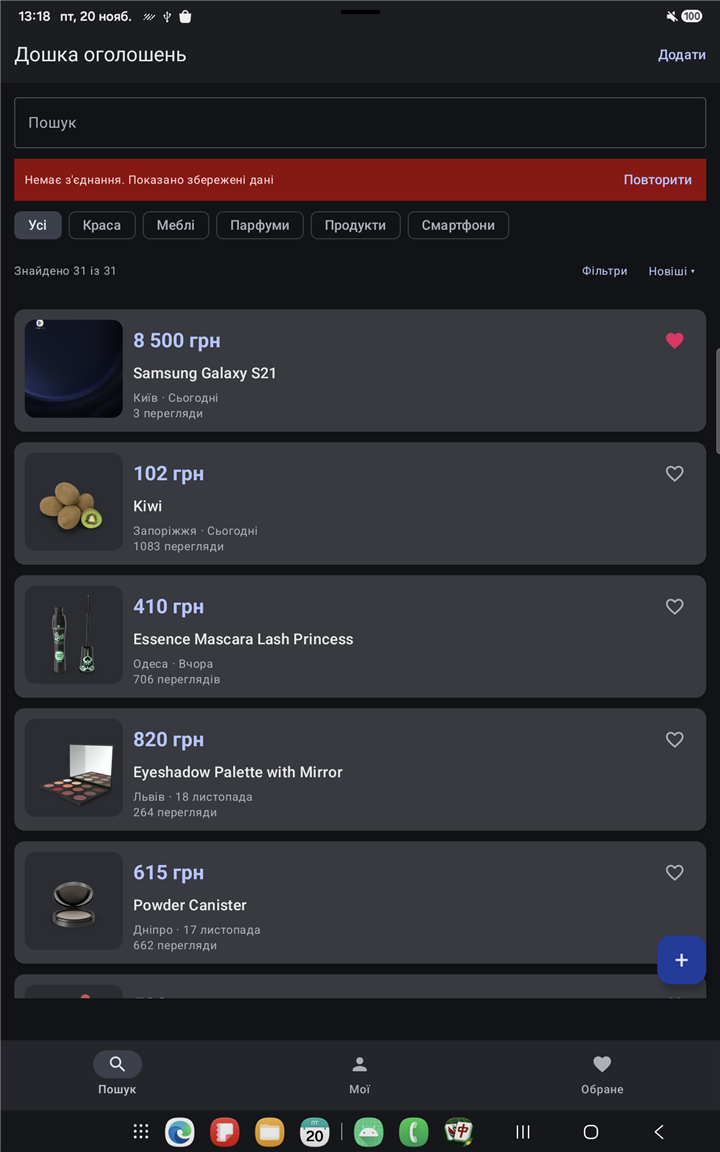
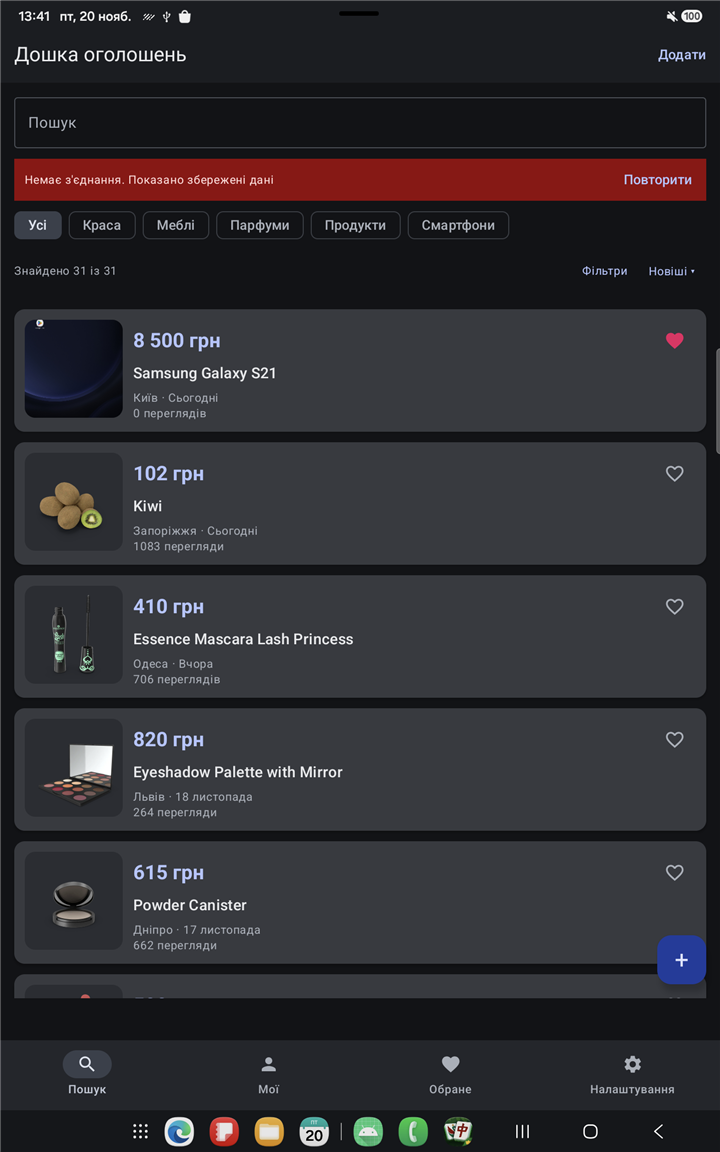
feat: move theme settings to a separate screen

diff --git a/app/src/main/java/com/example/adboardapp/ui/SettingsScreen.kt b/app/src/main/java/com/example/adboardapp/ui/SettingsScreen.kt
@@ -1,0 +1,154 @@
+package com.example.adboardapp.ui
+
+import androidx.compose.foundation.clickable
+import androidx.compose.foundation.layout.Box
+import androidx.compose.foundation.layout.Column
+import androidx.compose.foundation.layout.Row
+import androidx.compose.foundation.layout.Spacer
+import androidx.compose.foundation.layout.fillMaxSize
+import androidx.compose.foundation.layout.fillMaxWidth
+import androidx.compose.foundation.layout.height
+import androidx.compose.foundation.layout.padding
+import androidx.compose.foundation.layout.widthIn
+import androidx.compose.foundation.rememberScrollState
+import androidx.compose.foundation.shape.RoundedCornerShape
+import androidx.compose.foundation.verticalScroll
+import androidx.compose.material3.ExperimentalMaterial3Api
+import androidx.compose.material3.HorizontalDivider
+import androidx.compose.material3.MaterialTheme
+import androidx.compose.material3.RadioButton
+import androidx.compose.material3.Scaffold
+import androidx.compose.material3.Surface
+import androidx.compose.material3.Text
+import androidx.compose.material3.TopAppBar
+import androidx.compose.runtime.Composable
+import androidx.compose.runtime.getValue
+import androidx.compose.ui.Alignment
+import androidx.compose.ui.Modifier
+import androidx.compose.ui.tooling.preview.Preview
+import androidx.compose.ui.unit.dp
+import androidx.lifecycle.compose.collectAsStateWithLifecycle
+import com.example.adboardapp.model.ThemeMode
+import com.example.adboardapp.ui.theme.AdBoardAppTheme
+import org.koin.androidx.compose.koinViewModel
+
+// App settings, currently the theme choice
+@Composable
+fun SettingsScreen(
+    viewModel: ThemeViewModel = koinViewModel()
+) {
+    val mode by viewModel.mode.collectAsStateWithLifecycle()
+
+    SettingsContent(
+        mode = mode,
+        onModeChange = viewModel::setMode
+    )
+}
+
+// Stateless content of the settings screen
+@OptIn(ExperimentalMaterial3Api::class)
+@Composable
+fun SettingsContent(
+    mode: ThemeMode,
+    onModeChange: (ThemeMode) -> Unit,
+    modifier: Modifier = Modifier
+) {
+    Scaffold(
+        modifier = modifier.fillMaxSize(),
+        topBar = {
+            TopAppBar(title = { Text("Налаштування") })
+        }
+    ) { innerPadding ->
+        Box(
+            modifier = Modifier
+                .padding(innerPadding)
+                .fillMaxSize(),
+            contentAlignment = Alignment.TopCenter
+        ) {
+            Column(
+                modifier = Modifier
+                    .widthIn(max = 840.dp)
+                    .fillMaxSize()
+                    .verticalScroll(rememberScrollState())
+                    .padding(16.dp)
+            ) {
+                Text(
+                    text = "Оформлення",
+                    style = MaterialTheme.typography.labelLarge,
+                    color = MaterialTheme.colorScheme.onSurfaceVariant
+                )
+
+                Spacer(Modifier.height(8.dp))
+
+                Surface(
+                    shape = RoundedCornerShape(16.dp),
+                    tonalElevation = 1.dp,
+                    modifier = Modifier.fillMaxWidth()
+                ) {
+                    Column {
+                        ThemeMode.entries.forEachIndexed { index, option ->
+                            ThemeOption(
+                                label = option.label,
+                                description = description(option),
+                                selected = mode == option,
+                                onClick = { onModeChange(option) }
+                            )
+                            if (index != ThemeMode.entries.lastIndex) {
+                                HorizontalDivider(
+                                    modifier = Modifier.padding(start = 56.dp)
+                                )
+                            }
+                        }
+                    }
+                }
+            }
+        }
+    }
+}
+
+// One row of the theme radio group
+@Composable
+private fun ThemeOption(
+    label: String,
+    description: String,
+    selected: Boolean,
+    onClick: () -> Unit
+) {
+    Row(
+        modifier = Modifier
+            .fillMaxWidth()
+            .clickable(onClick = onClick)
+            .padding(horizontal = 12.dp, vertical = 10.dp),
+        verticalAlignment = Alignment.CenterVertically
+    ) {
+        RadioButton(selected = selected, onClick = onClick)
+        Column(modifier = Modifier.padding(start = 8.dp)) {
+            Text(
+                text = label,
+                style = MaterialTheme.typography.bodyLarge
+            )
+            Text(
+                text = description,
+                style = MaterialTheme.typography.bodySmall,
+                color = MaterialTheme.colorScheme.onSurfaceVariant
+            )
+        }
+    }
+}
+
+private fun description(mode: ThemeMode): String = when (mode) {
+    ThemeMode.SYSTEM -> "Як у системі"
+    ThemeMode.LIGHT -> "Світло-сірі кольори"
+    ThemeMode.DARK -> "Темні кольори"
+}
+
+@Preview(showBackground = true)
+@Composable
+private fun SettingsContentPreview() {
+    AdBoardAppTheme {
+        SettingsContent(
+            mode = ThemeMode.SYSTEM,
+            onModeChange = {}
+        )
+    }
+}

diff --git a/app/src/main/java/com/example/adboardapp/ui/MyAdsScreen.kt b/app/src/main/java/com/example/adboardapp/ui/MyAdsScreen.kt
@@ -1,6 +1,5 @@
 package com.example.adboardapp.ui
 
-import androidx.compose.foundation.clickable
 import androidx.compose.foundation.layout.Arrangement
 import androidx.compose.foundation.layout.Box
 import androidx.compose.foundation.layout.Column
@@ -21,7 +20,6 @@ import androidx.compose.material3.ExperimentalMaterial3Api
 import androidx.compose.material3.FloatingActionButton
 import androidx.compose.material3.MaterialTheme
 import androidx.compose.material3.PrimaryTabRow
-import androidx.compose.material3.RadioButton
 import androidx.compose.material3.Scaffold
 import androidx.compose.material3.Tab
 import androidx.compose.material3.Text
@@ -39,7 +37,6 @@ import androidx.compose.ui.unit.dp
 import androidx.lifecycle.compose.collectAsStateWithLifecycle
 import com.example.adboardapp.model.Ad
 import com.example.adboardapp.model.AdStatus
-import com.example.adboardapp.model.ThemeMode
 import com.example.adboardapp.ui.theme.AdBoardAppTheme
 import org.koin.androidx.compose.koinViewModel
 
@@ -49,53 +46,10 @@ fun MyAdsScreen(
     onAdClick: (Int) -> Unit,
     onAddClick: () -> Unit,
     onEditClick: (Int) -> Unit,
-    viewModel: MyAdsViewModel = koinViewModel(),
-    themeViewModel: ThemeViewModel = koinViewModel()
+    viewModel: MyAdsViewModel = koinViewModel()
 ) {
     val uiState by viewModel.uiState.collectAsStateWithLifecycle()
-    val themeMode by themeViewModel.mode.collectAsStateWithLifecycle()
     var pendingDelete by remember { mutableStateOf<Ad?>(null) }
-    var showThemeDialog by remember { mutableStateOf(false) }
-
-    if (showThemeDialog) {
-        AlertDialog(
-            onDismissRequest = { showThemeDialog = false },
-            title = { Text("Тема оформлення") },
-            text = {
-                Column {
-                    ThemeMode.entries.forEach { mode ->
-                        Row(
-                            modifier = Modifier
-                                .fillMaxWidth()
-                                .clickable {
-                                    themeViewModel.setMode(mode)
-                                    showThemeDialog = false
-                                }
-                                .padding(vertical = 8.dp),
-                            verticalAlignment = Alignment.CenterVertically
-                        ) {
-                            RadioButton(
-                                selected = themeMode == mode,
-                                onClick = {
-                                    themeViewModel.setMode(mode)
-                                    showThemeDialog = false
-                                }
-                            )
-                            Text(
-                                text = mode.label,
-                                modifier = Modifier.padding(start = 8.dp)
-                            )
-                        }
-                    }
-                }
-            },
-            confirmButton = {
-                TextButton(onClick = { showThemeDialog = false }) {
-                    Text("Закрити")
-                }
-            }
-        )
-    }
 
     if (pendingDelete != null) {
         AlertDialog(
@@ -129,8 +83,7 @@ fun MyAdsScreen(
         onPublishClick = viewModel::publish,
         onArchiveClick = viewModel::archive,
         onDeleteClick = { ad -> pendingDelete = ad },
-        onAddClick = onAddClick,
-        onThemeClick = { showThemeDialog = true }
+        onAddClick = onAddClick
     )
 }
 
@@ -147,7 +100,6 @@ fun MyAdsContent(
     onArchiveClick: (Int) -> Unit,
     onDeleteClick: (Ad) -> Unit,
     onAddClick: () -> Unit,
-    onThemeClick: () -> Unit,
     modifier: Modifier = Modifier
 ) {
     Scaffold(
@@ -156,9 +108,6 @@ fun MyAdsContent(
             TopAppBar(
                 title = { Text("Мої оголошення") },
                 actions = {
-                    TextButton(onClick = onThemeClick) {
-                        Text("Тема")
-                    }
                     TextButton(onClick = onAddClick) {
                         Text("Додати")
                     }
@@ -333,8 +282,7 @@ private fun MyAdsContentPreview() {
             onPublishClick = {},
             onArchiveClick = {},
             onDeleteClick = {},
-            onAddClick = {},
-            onThemeClick = {}
+            onAddClick = {}
         )
     }
 }

diff --git a/app/src/main/java/com/example/adboardapp/ui/AdBoardNavHost.kt b/app/src/main/java/com/example/adboardapp/ui/AdBoardNavHost.kt
@@ -6,6 +6,7 @@ import androidx.compose.material.icons.Icons
 import androidx.compose.material.icons.filled.Favorite
 import androidx.compose.material.icons.filled.Person
 import androidx.compose.material.icons.filled.Search
+import androidx.compose.material.icons.filled.Settings
 import androidx.compose.material3.Icon
 import androidx.compose.material3.NavigationBar
 import androidx.compose.material3.NavigationBarItem
@@ -28,11 +29,12 @@ import org.koin.core.parameter.parametersOf
 private const val LIST_ROUTE = "list"
 private const val MY_ROUTE = "my"
 private const val FAVORITES_ROUTE = "favorites"
+private const val SETTINGS_ROUTE = "settings"
 private const val DETAILS_ROUTE = "details"
 private const val EDIT_ROUTE = "edit"
 
 // Bottom bar tabs
-private val tabRoutes = setOf(LIST_ROUTE, MY_ROUTE, FAVORITES_ROUTE)
+private val tabRoutes = setOf(LIST_ROUTE, MY_ROUTE, FAVORITES_ROUTE, SETTINGS_ROUTE)
 
 // Single NavHost with the bottom bar and all screens
 @Composable
@@ -85,6 +87,10 @@ fun AdBoardNavHost(
                 FavoritesScreen(
                     onAdClick = { id -> navController.navigate("$DETAILS_ROUTE/$id") }
                 )
+            }
+
+            composable(SETTINGS_ROUTE) {
+                SettingsScreen()
             }
 
             composable(
@@ -144,6 +150,12 @@ private fun BottomBar(
             onClick = { onSelect(FAVORITES_ROUTE) },
             icon = { Icon(Icons.Filled.Favorite, contentDescription = null) },
             label = { Text("Обране") }
+        )
+        NavigationBarItem(
+            selected = currentRoute == SETTINGS_ROUTE,
+            onClick = { onSelect(SETTINGS_ROUTE) },
+            icon = { Icon(Icons.Filled.Settings, contentDescription = null) },
+            label = { Text("Налаштування") }
         )
     }
 }

diff --git a/README.md b/README.md
@@ -11,7 +11,7 @@ because Room is the single source of truth.
   <img src="docs/screenshots/home.png" width="240" alt="Dark theme">
   <img src="docs/screenshots/theme_switch.png" width="240" alt="Theme switch">
 </p>
-<p align="center"><sub>Light theme · Dark theme · Theme switch</sub></p>
+<p align="center"><sub>Light theme · Dark theme · Settings</sub></p>
 
 <p align="center">
   <img src="docs/screenshots/details.png" width="240" alt="Ad details">
@@ -41,7 +41,7 @@ because Room is the single source of truth.
 - Favorites.
 - Offline-first: the cached list stays available, a banner explains the missing connection,
   and user ads are never overwritten by a network refresh.
-- Light and dark themes with a System / Light / Dark switch, saved between launches.
+- Light and dark themes with a System / Light / Dark switch in Settings, saved between launches.
 - Dependency injection with Koin.
 
 ## Tech stack
